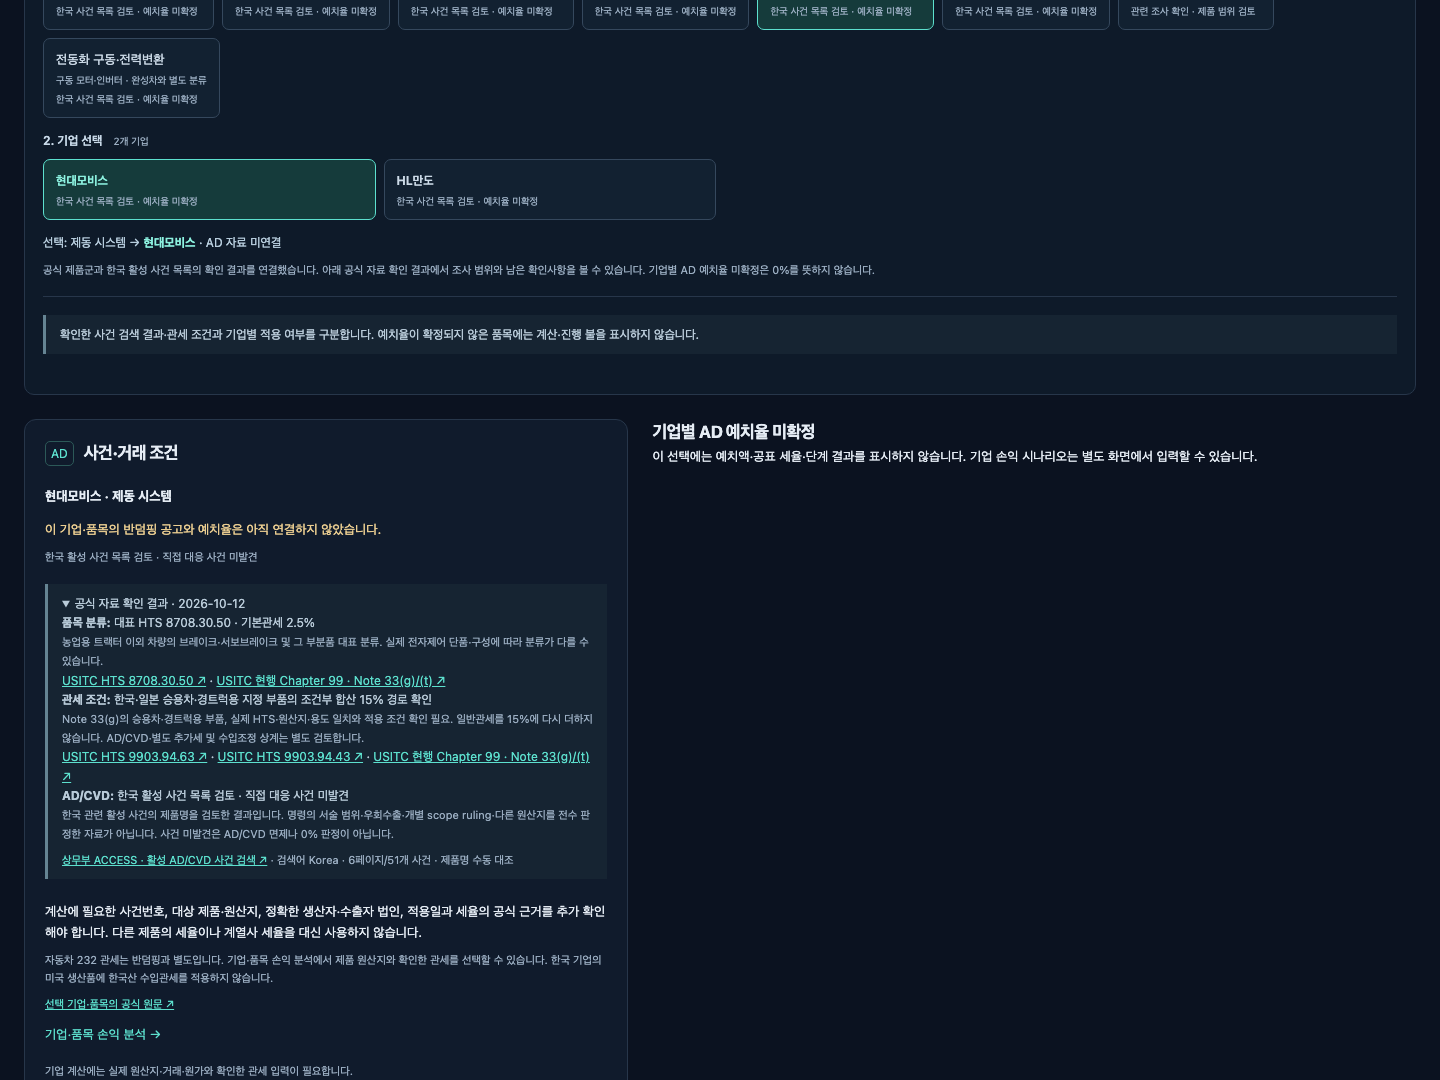
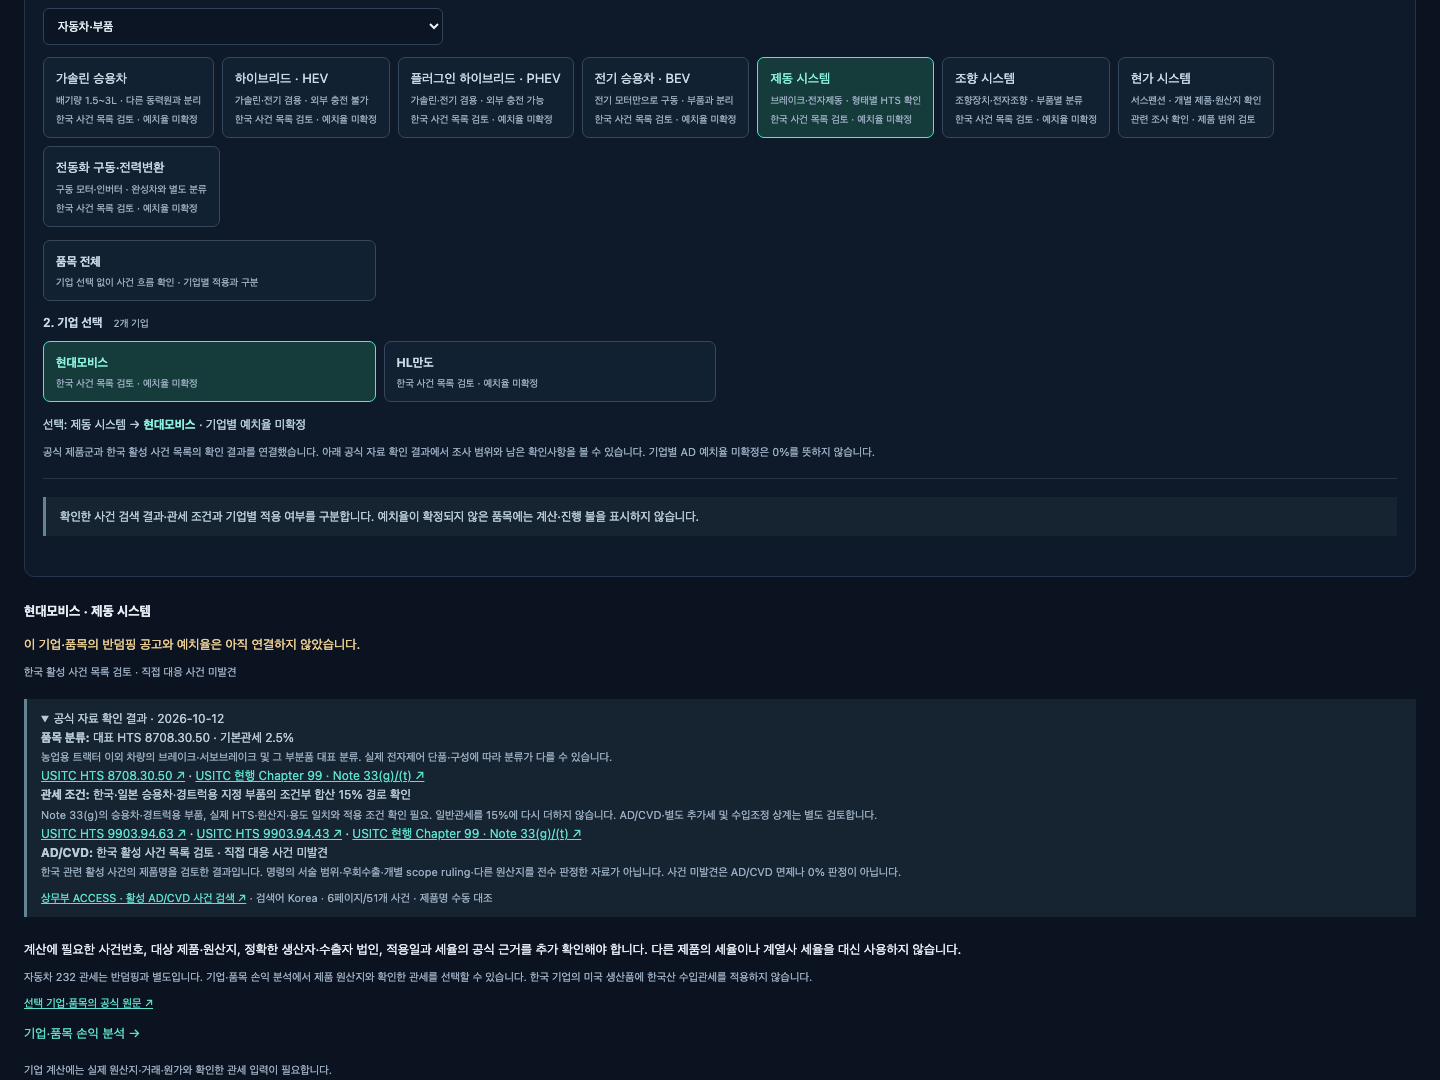
Prioritize AD notice monitoring with optional transaction calculator

Changed region(s): [[0.0312, 0.0, 0.875, 0.5194], [0.0, 0.55, 0.6562, 1.0]]

diff --git a/New for anti/policy-simulator/style.css b/New for anti/policy-simulator/style.css
@@ -45,3 +45,5 @@
 /* Compact noun headings; beginner explanations stay separate from input labels. */
 .ts-logic{border-bottom:1px solid var(--ts-line);padding:0 0 12px;margin:12px 0 0;font-size:12px;overflow-wrap:anywhere}.ts-logic summary{font-size:12px}.ts-logic-flow{color:#d4e1ed}.ts-logic dl{margin:10px 0}.ts-logic dl>div{display:grid;grid-template-columns:150px minmax(0,1fr);gap:12px;padding:7px 0}.ts-logic dt{color:#c2d3e3;font-weight:600}.ts-logic dd{margin:0;max-width:850px}.ts-company-public>p{font-size:12px}.ts-app label>small{line-height:1.65}
 @media(max-width:540px){.ts-logic dl>div{grid-template-columns:1fr;gap:3px}.ts-logic{font-size:11px}}
+
+.ts-ad-overview{margin:12px 0}.ts-ad-calculator{margin:22px 0;border:1px solid var(--ts-line);border-radius:10px;padding:16px}.ts-ad-calculator>summary{cursor:pointer;font-size:14px;font-weight:650;color:var(--ts-accent)}.ts-ad-calculator>.ts-help{margin:14px 0}.ts-ad-calculator:not([open])>.ts-layout{display:none}

diff --git a/docs/ops/TASKS.md b/docs/ops/TASKS.md
@@ -7,7 +7,7 @@
 
 | id | task | owner | files / scope | branch | status | note |
 |----|------|-------|---------------|--------|--------|------|
-| T51 | 정책·미국 국가·기업 관세 시뮬레이터 | codex | `New for anti/policy.js` 시뮬레이터 탐색 연결, `New for anti/policy-simulator/**`, 전용 preview·tests·docs | `codex/country-tariff-simulator-20261011` | review | 10/12 후속: 핵심 산업 6개+자동차/품목 15개, 공식 AD 5개 사건/33개 법인, 기업 프로필 37개(재무 7/관보 30). 강관 전체 23개사 검색·배정 마진과 미확인 예치율 분리, 다음 POR 15개사 철회/6개사 비선정 진행. SAP LG화학 추가. Node62·소유권7·브라우저5종/360px 통과. 공고 발견 후속: 5사건/23공고(기존8·검토15), 원문 해시·실패 보존·403/429 중단·검토 UI. Node76·소유권7·브라우저3. PR #528, 병합·운영 배포 없음. 공고15건 수동검토: 진행/마진8·안내6·불일치보류1, 새POR4·타이어철회1·예비마진3·기업별선정표시. Node83·브라우저5종 통과. UI 명사형 통일·계산 원리/용어·원문 연결, 브라우저8종·3탭 desktop/360px 확인. 자동차 후속: 완성차4·부품4/총22품목·40프로필, 현대자동차·모비스·HL만도 공식제품 연결. HEV/PHEV/BEV HTS 별도 확인·산업 탄력성 대용 표시, AD/부품세율 미확인 보존. Node85·소유권7·브라우저3/360px 통과.  공식자료 확인 후속: 대표 제동/조향/현가 HTS·KOR/JPN 조건부15% 연결, 한국 활성51사건/17품목 검토, OCTG 최종마진·예치율 분리/유압실린더 관련범위/원산지 격리. Node89·소유권7·브라우저4/360px 통과. |
+| T51 | 정책·미국 국가·기업 관세 시뮬레이터 | codex | `New for anti/policy.js` 시뮬레이터 탐색 연결, `New for anti/policy-simulator/**`, 전용 preview·tests·docs | `codex/country-tariff-simulator-20261011` | review | 10/12 후속: 핵심 산업 6개+자동차/품목 15개, 공식 AD 5개 사건/33개 법인, 기업 프로필 37개(재무 7/관보 30). 강관 전체 23개사 검색·배정 마진과 미확인 예치율 분리, 다음 POR 15개사 철회/6개사 비선정 진행. SAP LG화학 추가. Node62·소유권7·브라우저5종/360px 통과. 공고 발견 후속: 5사건/23공고(기존8·검토15), 원문 해시·실패 보존·403/429 중단·검토 UI. Node76·소유권7·브라우저3. PR #528, 병합·운영 배포 없음. 공고15건 수동검토: 진행/마진8·안내6·불일치보류1, 새POR4·타이어철회1·예비마진3·기업별선정표시. Node83·브라우저5종 통과. UI 명사형 통일·계산 원리/용어·원문 연결, 브라우저8종·3탭 desktop/360px 확인. 자동차 후속: 완성차4·부품4/총22품목·40프로필, 현대자동차·모비스·HL만도 공식제품 연결. HEV/PHEV/BEV HTS 별도 확인·산업 탄력성 대용 표시, AD/부품세율 미확인 보존. Node85·소유권7·브라우저3/360px 통과.  공식자료 확인 후속: 대표 제동/조향/현가 HTS·KOR/JPN 조건부15% 연결, 한국 활성51사건/17품목 검토, OCTG 최종마진·예치율 분리/유압실린더 관련범위/원산지 격리. Node89·소유권7·브라우저4/360px 통과.  10/13 공고 중심 기본 보기: 품목전체/선택 기업·공통/법인 단계 분리, 선택 계산 접힘·입력 보존·한국산 범위 명시. Node90·소유권7·브라우저7 통과. 공고 발견 UI 테스트 보완 후 재실행 미완료/앱 탭 보안정책 거부. docs/antidumping-monitor.md. |
 | ELECTION-STATE-INTEGRATION-20261010 | 선거 주별 스택·일일 게시 반복 충돌 방지와 A 통합 | codex | 주별 입력·오프라인 재생성·공용 로더·게시 재시도·검사·인수 문서; 기존 polling workflow 한 개 | `codex/election-state-integration-20261010` | review | NE 중지·보존. A CT/AL/NJ/NM/NH 입력 분리, 전국 생성물 PR 제외. polling 405·finance 68·federal 6·JS 51·ops 10 및 deploy-chain 39 통과. B AK/KS는 A main 반영 후. deploy.yml/UI/LETF 변경·병합·배포·workflow dispatch 없음. |
 | COMMODITY-MONTHLY-20261007 | 월별 총계 선택·갱신·Cloudflare 관세청 키 연결·최신성 감시 | codex | commodity_trade 수집·검증·데이터, `_worker.js` 월별 조회/보호 중계, 전용 refresh/watchdog workflow, 소유권 scope tests·인수 문서 | `codex/commodity-monthly-automation` | review | 사용자 2026-10-07 진행 지시. Worker·전용 workflow 2개만 정확한 브랜치 예외. UI·wrangler·공용 deploy 변경 금지. 병합/배포 미실행, 중계 토큰 설정 및 운영 한국 호출은 인수 후 검증. |
 | SHIPPING-HISTORY-20261007 | 선종별 추정 교역량 1년·2년 그래프 | codex | `New for anti/shipping.js`, 해운 artifact 이력 계약·테스트·JSON 4종, 전용 handoff | `codex/chokepoint-history-2y` | **review** | 병합된 #454 후속. 3/6개월 유지 + 1/2년 추가, 실제 730일 이력 포함·연도 축·자료 범위 안내. Python 167 통과/2 skip, Node 17·스키마 4종/golden·데스크톱/360px 확인. 다른 UI·workflow·모델 수식·ACP 제외. 미배포, Claude 통합 담당. handoff: `docs/ops/handoff/2026-10-07-codex-chokepoint-history-2y.md`. |

diff --git a/docs/antidumping-monitor.md b/docs/antidumping-monitor.md
@@ -1,0 +1,26 @@
+# 공고 중심 반덤핑 모니터
+
+구현일: 2026-10-13. 기존 PR #528 후속. 새로운 공고·세율을 조사하거나 법적 적용을 확대한 변경이 아니다. 자료별 기존 확인일을 유지한다.
+
+## 기본 흐름
+
+산업 → 품목 → **품목 전체**가 기본이다. 기업이나 거래 금액·통관일을 입력하지 않아도 수록한 공식 공고, 공표 마진 이력, 재심 대상 기간과 공통 진행 근거를 볼 수 있다. 현재 수록 사건의 대상 원산지는 한국이다. 본사 소재지·선적 항구와 구분하며, 다른 원산지에 한국 자료를 적용하지 않는다. 미수록 국가를 선택할 수 있는 형식적인 목록은 추가하지 않았다.
+
+기업 선택은 선택사항이다. 특정 기업을 누르면 해당 법인의 재심 선정·철회·예치 적용 근거로 좁힌다. ‘품목 전체’로 돌아가면 기업 선택 표시를 해제하고 기업별 철회 기록은 제외한다. 기업을 지정한 선정 이벤트는 전체 보기의 공통 단계에 사용하지 않으며, 특정 기업의 예치율 발효를 전체 품목의 예치율로 표시하지 않는다. 공통 근거 미수록은 실제 절차 미진행을 뜻하지 않는다.
+
+공표 마진 이력과 새 공고 검토 목록은 계산기 밖으로 이동했다. 예비 마진, 최종 마진, 현금예치율, 관세 확정은 기존 구분을 유지한다. 미확인 품목은 품목 차원의 공식 자료 확인 결과를 보여주고 기업을 선택한 경우만 기업 제품 원문·기업 손익 이동 버튼을 제공한다.
+
+## 선택 계산
+
+‘선택 · 예치 부담 계산’을 펼칠 때만 통관일·신고가격·비교 예치율·금리·기간 및 생산자/수출자 조건 확인을 이용한다. 계산용 법인과 참고율을 명시하며 품목 전체의 평균 예치율로 계산하지 않는다. 제품·법인 조건 확인은 계속 필수다. 품목 전체로 돌아가면 계산기를 접되 직접 수정한 값은 보존한다. 기업 손익 화면의 기존 ‘반덤핑 사건 확인’ 이동은 해당 기업으로 좁혀 계산기를 연다.
+
+기본 모니터를 보려는 이용자에게 공장·선적 항구·거래별 생산자/수출자를 필수 입력받지 않는다. 실제 통관 적용은 품목 범위·원산지·법인·날짜·CBP 지침 검토가 필요하며 이 모니터가 자동 판정하지 않는다.
+
+## 검증·범위
+
+- Node90개 및 소유권 회귀7개 통과. 기업별 철회가 사건 전체로 확장되지 않음, 개별조사 선정 이벤트의 전체 보기 제외, 원본 기록 불변 검증 포함.
+- 브라우저7종 통과: 신규 모니터, 기존 반덤핑 계산, 입력 안내, 산업·기업 선택, 공식 자료 확인, 22품목/40기업 전수, 기업 손익. 전체 보기·기업별 보기·과거 POR·철회·예치108,000달러 계산·입력 보존·360px·외부 호출 없음 검증.
+- 공고 발견 브라우저 테스트는 접힌 계산기 내부 텍스트 확인에서 실패하여 DOM 텍스트 조회와 명시적 계산기 열기로 보완했다. 보완 후 해당 테스트의 브라우저 재실행은 완료하지 못했다. 앱 내 기존 오류 탭 접근이 브라우저 보안 정책에 거부되어 다른 브라우저 경로로 우회하지 않았다. 수정 테스트 구문 검사 통과.
+- 검증 화면: `docs/previews/antidumping-monitor-{desktop,mobile}.png`. 기존 공식 확인 화면도 새 배치에 맞게 갱신.
+
+새 세율·새 원산지·DB·수집 예약·메일·유료 AI 호출·main 병합·운영 배포는 포함하지 않는다. 자동 공고 발견과 검토 후 법적 적용 확정은 별도 단계다.

diff --git a/docs/ops/handoff/2026-10-11-codex-country-tariff-simulator.md b/docs/ops/handoff/2026-10-11-codex-country-tariff-simulator.md
@@ -162,3 +162,11 @@ git push -u origin codex/country-tariff-simulator-20261011
 - 3탭 접힌 공식자료 확인 결과·작은 설명·원문·확인일, 국가/기업 JSON product_verification 추가. 미수집 공급국 통계는 JSON 출처·연도null 수정. 자동수집·현재율확정 아님.
 - Node89·소유권7·브라우저4(신규 검증/산업전수/AD선택/기업), 40프로필22품목·360px·15→30·null·원산지 격리 통과. docs/previews/automotive-verification-{desktop,mobile}.png 육안확인. 상세 docs/policy-product-verification-20261012.md(51건 수기목록 포함).
 - 같은 PR#528 후속, localhost:8773 미리보기 재시작. main병합·운영배포·DB·수집·메일·유료AI 호출 없음.
+
+
+### 2026-10-13 공고 중심 반덤핑 모니터
+- 기본 산업/품목→품목전체, 기업 선택사항. 한국산 수록 범위 명시, 타국/선적항구로 자료 추정 금지. 공표마진·공고 검토를 계산기 밖으로 이동.
+- 전체 재심 기록에서 법인별 철회 제외·기업 지정 선정 이벤트 제외·기업 예치 발효 미표시. 기업 선택 시 기존 개별 진행/철회와 근거 제공. 전체로 돌아가 계산기 접기·거래 편집값 보존. 미확인 품목은 기업 없는 제품 근거 표시.
+- 선택 예치 계산 접힘, 기업 손익→AD 기존 명시적 기업 이동은 계산기 열기. 수식·세율·확인일·DB/수집/메일 변경 없음. 전용CSS v6.
+- Node90·소유권7·브라우저7 통과/360px·입력보존·기업/전체 철회 분리·기존 예치계산. 공고 발견 브라우저는 숨긴 텍스트 검사 실패를 textContent/명시적 펼침으로 수정했으나 재실행 미완료(구문 통과). CUA의 기존 오류 탭 접근 보안정책 거부, 우회하지 않음.
+- 상세 docs/antidumping-monitor.md, docs/previews/antidumping-monitor-{desktop,mobile}.png. localhost:8773 preview 재시작. PR#528 후속이며 main병합/운영배포/유료AI 없음. .DS_Store 기존 변경은 보존·미커밋.
